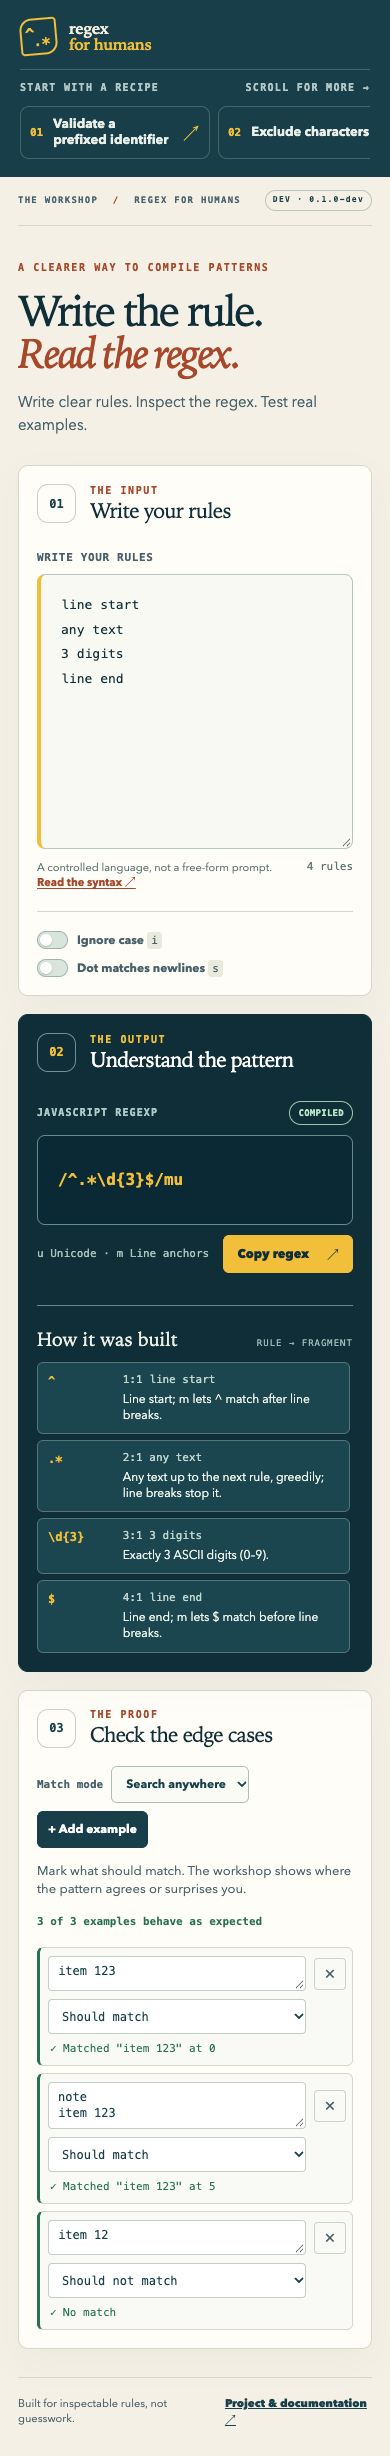
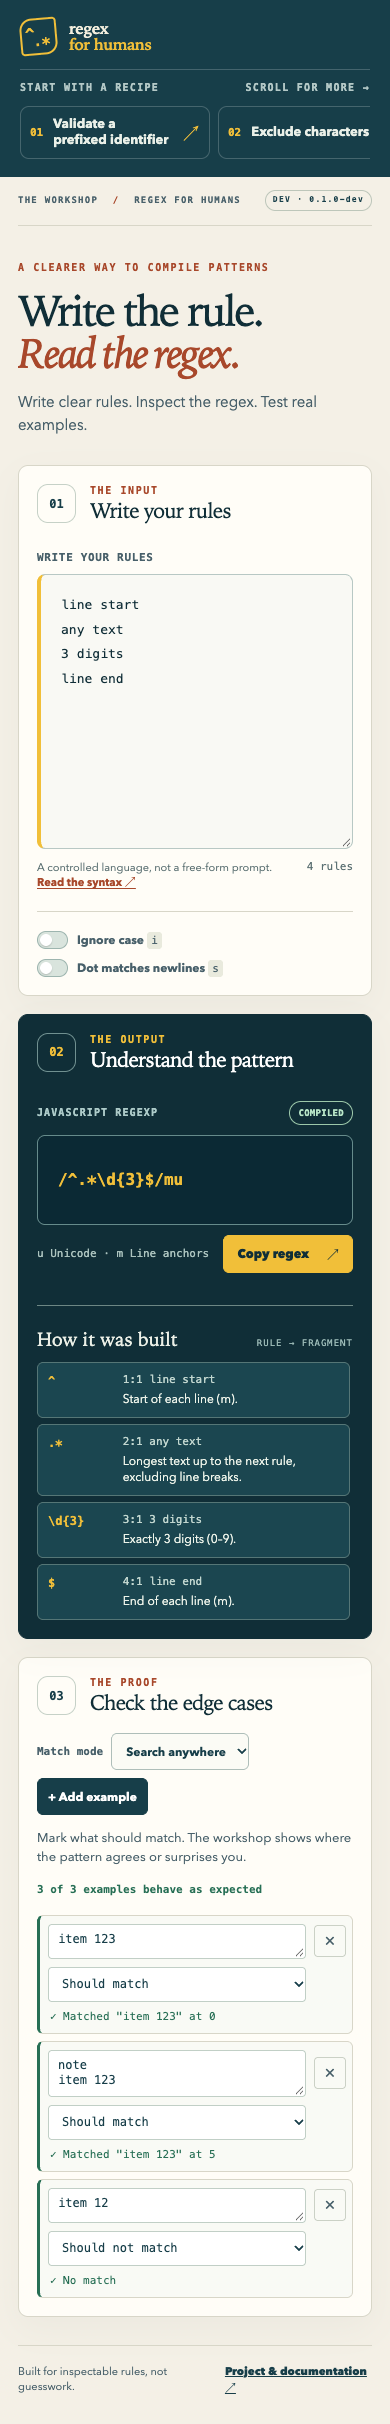
docs(site): refresh concise explanation captures

diff --git a/site/index.html b/site/index.html
@@ -80,7 +80,7 @@ end</code></pre>
         <a class="text-link" href="./workshop/">Open the workshop <span aria-hidden="true">↗</span></a>
       </div>
       <a class="workshop-preview" href="./workshop/" aria-label="Open the interactive Regex For Humans workshop">
-        <img src="./assets/workshop-preview.png?v=674814dbda1c" alt="The workshop compiles start &quot;ABC&quot;, 3 digits, and end to ^ABC\d{3}$. All four examples pass." loading="lazy" width="1280" height="1521">
+        <img src="./assets/workshop-preview.png?v=2d128ad4f7f8" alt="The workshop compiles start &quot;ABC&quot;, 3 digits, and end to ^ABC\d{3}$. All four examples pass." loading="lazy" width="1280" height="1521">
         <span class="preview-tag">LIVE WORKSHOP <b aria-hidden="true">↗</b></span>
       </a>
       <p class="workshop-caption"><span class="online-dot" aria-hidden="true"></span> Rules and examples are compiled and tested in your browser. No account required.</p>

diff --git a/ROADMAP.md b/ROADMAP.md
@@ -15,13 +15,13 @@ Cocher une tâche uniquement après vérification de tous ses critères. Les dé
 - [x] 2.2 Atelier web local — build statique avec ressources versionnées par contenu, 4 recettes, copie réelle, diagnostics, console et requêtes locales vérifiés ; tests navigateur bureau/mobile verts
 - [x] 2.3 Tests positifs et négatifs — 16 tests navigateur verts : ancres, Unicode, saut de ligne, modes, édition et écarts ; isolation contre exécution longue suivie en 3.2
 - [ ] 2.4 Interface et accessibilité — rendu et clavier vérifiés, 14 tests axe/Playwright verts localement le 27 septembre ; lecteur d'écran réel et 3 nouvelles personnes encore requis
-- [x] 3.1 Tests et compatibilité — 59 tests Node passés localement sous Node 25.9.0 ; CI verte, 59 tests Node et 44 tests navigateur (run `36359367488`, commit `405ed23`) le 28 septembre 2026, sur Linux Node 22/24, macOS/Windows Node 24 et Chromium Linux ; format, lint, audit npm, typage, build et installation propre vérifiés ; limites documentées dans `docs/TESTING.md`
-- [x] 3.2 Bornes et sécurité de l'exécution — limites documentées, worker interrompable, timeout/récupération, source regex échappée et entrée HTML testés ; 44 tests navigateur verts le 28 septembre 2026 (run `36359367488`) ; `npm audit` vérifié sous Node 24
+- [x] 3.1 Tests et compatibilité — 59 tests Node passés localement sous Node 25.9.0 ; CI verte, 59 tests Node et 44 tests navigateur (run `36360100581`, commit `3d43554`) le 28 septembre 2026, sur Linux Node 22/24, macOS/Windows Node 24 et Chromium Linux ; format, lint, audit npm, typage, build et installation propre vérifiés ; limites documentées dans `docs/TESTING.md`
+- [x] 3.2 Bornes et sécurité de l'exécution — limites documentées, worker interrompable, timeout/récupération, source regex échappée et entrée HTML testés ; 44 tests navigateur verts le 28 septembre 2026 (run `36360100581`) ; `npm audit` vérifié sous Node 24
 - [ ] 3.3 Architecture et politique de changements — guide, liens et exercice interne vérifiés (`docs/CONTRIBUTION-EXERCISE.md`) ; revue par un contributeur extérieur encore requise
 - [ ] 4.1 README et premier succès — README réécrit, exemples CLI/bibliothèque contrôlés et site projet publié ; relecture par un novice encore requise
 - [ ] 4.2 Captures réelles — captures bureau/mobile du build local `0.1.0-dev` ajoutées au README avec provenance et SHA-256 ; captures de la version publiée à refaire après 2.4
 - [ ] 4.3 Contribution et présentation GitHub — politiques sécurité/changelog et modèles d'issues/PR présents ; API confirme le signalement privé, la description, 12 topics et la page d'accueil ; aperçu GitHub non vérifié (connexion requise) ; démo publique disponible
[2 lines of base64/hex data omitted]
 - [ ] 5.2 Package publié et atelier déployé — tarball local testé ; site projet et atelier vérifiés en HTTPS le 28 septembre (Pages commit `a6640aa`, build réussi, asset `c5584df8342f`, quatre recettes courtes vérifiées, trace simplifiée) ; workflows de release depuis un tag stable contrôlés par `actionlint` ; registry npm renvoie 404 ; stable tag et release restent à publier
 - [ ] 5.3 Décision et validation des binaires — voie npm/Node retenue provisoirement dans `docs/DISTRIBUTION.md` ; besoin de binaire à mesurer dans les séances utilisateurs avant décision finale
 - [ ] 5.4 Release publiée et vérifiée

diff --git a/media/screenshots/README.md b/media/screenshots/README.md
@@ -1,16 +1,16 @@
 # Screenshot evidence
 
-Both files are full-page Chrome captures of the local static workshop, built from commit `405ed23` with `npm run build:pages` and served at `http://127.0.0.1:4177/` on 28 September 2026. They show the `line-rule` recipe: `line start`, `any text`, `3 digits`, `line end`. All three example checks pass. The desktop view lists all four recipes; the mobile recipe bar scrolls. Both show `Rules stay local`, the visible `DEV · 0.1.0-dev` label and the shorter explanation `Exactly 3 ASCII digits (0–9).` No interface elements, examples or results were composited or edited. The screenshots contain only project-owned UI and system fonts.
+Both files are full-page Chrome captures of the local static workshop, built from commit `3d43554` with `npm run build:pages` and served at `http://127.0.0.1:4177/` on 28 September 2026. They show the `line-rule` recipe: `line start`, `any text`, `3 digits`, `line end`. All three example checks pass. The desktop view lists all four recipes; the mobile recipe bar scrolls. Both show `Rules stay local`, the visible `DEV · 0.1.0-dev` label and shorter rule explanations, including `Exactly 3 digits (0–9).` No interface elements, examples or results were composited or edited. The screenshots contain only project-owned UI and system fonts.
 
 | File | Viewport | Pixels | Size | SHA-256 |
 | --- | --- | --- | --- | --- |
[4 lines of base64/hex data omitted]
 
 The homepage preview at `site/assets/workshop-preview.png` is a separate capture of `prefixed-identifier`; its four sample checks pass.
 
 | File | Viewport | Pixels | Size | SHA-256 |
 | --- | --- | --- | --- | --- |
[2 lines of base64/hex data omitted]
 
 These are local development captures, not published-release evidence. Re-capture from the final tested build after UX reviews before closing roadmap task 4.2.

diff --git a/docs/TESTING.md b/docs/TESTING.md
@@ -4,11 +4,11 @@ The package declares Node.js `>=22`. These results passed on 28 September 2026:
 
 | Node version | Verification |
 | --- | --- |
-| 22.x | GitHub Actions run `36359367488` |
-| 24.x | GitHub Actions run `36359367488` |
+| 22.x | GitHub Actions run `36360100581` |
+| 24.x | GitHub Actions run `36360100581` |
 | 25.9.0 | `npm run check`, `npm test` — 59 tests, `npm run test:package`, and `npm run test:browser` — 44 tests |
 
[2 lines of base64/hex data omitted]
 
 ## Reproduce locally
 
